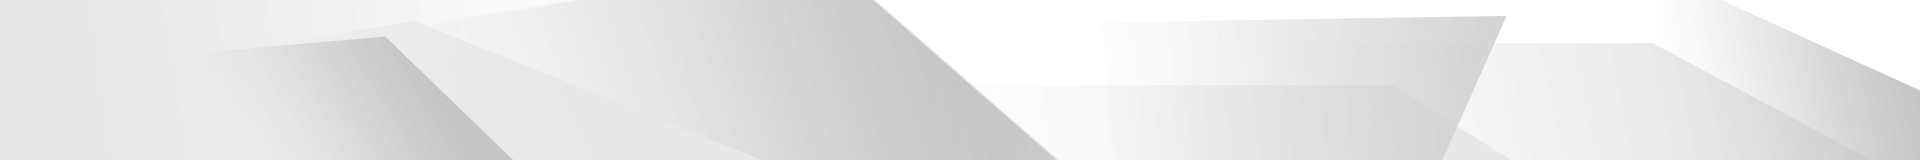
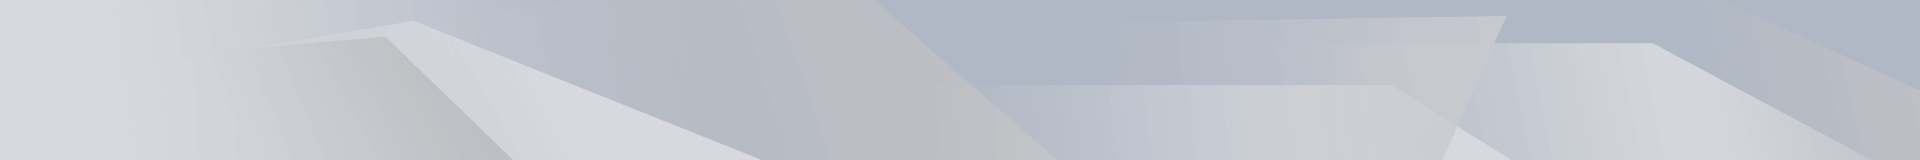
110-04-20-1

diff --git a/src/app/home/home.component.scss b/src/app/home/home.component.scss
@@ -1,7 +1,5 @@
 .home {
-  padding: 10px 0 50px;
-  background: url(/nt1_web/assets/img/home_bg_1.jpg) no-repeat center center;
-  background-size: cover;
+  padding-top: 10px;
 }
 
 .marquee-wrap {
@@ -15,19 +13,20 @@
 .type_list {
   // outline: 1px solid pink;
   display: flex;
+  width: 1400px;
   flex-wrap: wrap;
   max-height: 668px;
-  margin: 0 -22px 0 0;
+  margin-top: 60px;
 
   li {
     position: relative;
-    width: 457px;
-    height: 219px;
-    margin: 0 15px 15px 0;
+    width: 339px;
+    height: 270px;
+    margin: 0 14px 60px 0;
     border-radius: 8px;
     // outline: 1px solid red;
     order: 10;
-    box-shadow: 0 0 13px 0px #cbd0e3;
+    box-shadow: 2px 3px 4px 0px #8a8a8a;
 
     &.sport {
       order: 1;
@@ -35,26 +34,100 @@
 
     &.live {
       order: 2;
+      .homeImg {
+        background-position-X: -343px;
+      }
     }
 
     &.slot {
       order: 3;
+      .homeImg {
+        background-position-X: -689px;
+      }
     }
 
     &.lottery {
       order: 4;
-    }
-
-    &.board {
-      order: 6;
+      margin-right: 0px;
+      .homeImg {
+        background-position-X: -1033px;
+      }
     }
 
     &.fishing {
       order: 5;
+      .homeImg {
+        background-position-X: -1377px;
+      }
+    }
+
+    &.board {
+      order: 6;
+      .homeImg {
+        background-position-X: -1720px;
+      }
     }
 
     // &:nth-child(3n) {
     //   // margin: 0 0 34px 0;
     // }
+    img {
+      width: 100%;
+      height: 100%;
+    }
+
+    .homeImg {
+      width: 344px;
+      height: 324px;
+      background: url('../../assets/img/new/homeImg.png') no-repeat;
+      background-size: 800%;
+      position: absolute;
+      left: -2px;
+      bottom: 0px;
+      pointer-events: none;
+    }
+  }
+}
+
+.partnerImg {
+  width: 100%;
+  height: 55px;
+  border: solid 1px #957222;
+  border-radius: 30px;
+  background: linear-gradient(to top,#d7d7d7 0%,#ffffff 76%);
+  margin: -30px 0px 30px;
+  position: relative;
+
+  &::before {
+    content: "";
+    position: absolute;
+    width: 12px;
+    height: 12px;
+    top: 50%;
+    left: 2%;
+    transform: translateY(-50%);
+    border: solid 1px #9f9f9e;
+    background: linear-gradient(to top,#d7d7d7 0%,#ffffff 100%);
+    border-radius: 10px;
+  }
+
+  &::after {
+    content: "";
+    position: absolute;
+    width: 12px;
+    height: 12px;
+    top: 50%;
+    right: 2%;
+    transform: translateY(-50%);
+    border: solid 1px #9f9f9e;
+    background: linear-gradient(to top,#d7d7d7 0%,#ffffff 100%);
+    border-radius: 10px;
+  }
+
+  div {
+    width: 1272px;
+    height: 39px;
+    background: url('../../assets/img/new/partnerImg.png') no-repeat;
+    margin: 9px auto 0px;
   }
 }

diff --git a/src/app/header/header.component.scss b/src/app/header/header.component.scss
@@ -1,6 +1,5 @@
 header {
-  background: url('../../assets/img/new/headerBG.png') no-repeat;
-  background-size: 100%;
+  background: url('../../assets/img/new/headerBG.png') no-repeat top center;
   font-weight: bold;
   box-shadow: 0 0 13px 2px #dbdef4;
   position: relative;
@@ -70,7 +69,7 @@ option {
     }
 
     &.clickable:hover {
-      background-color: #0068ff;
+      background-color: #866748;
     }
 
     & > .forget {
@@ -220,6 +219,10 @@ option {
       margin-left: 8px;
       padding: 0px 9px 0px 8px;
 
+      &:hover,&:active,&.active {
+        background: linear-gradient(to bottom,#2a8a4b 0%,#6dd191 75%,#54a874 99%);
+      }
+
       span {
         display: inline-block;
         width: 12px;
@@ -231,8 +234,8 @@ option {
     }
                                                                                                                                                                                        
 
-    &:active {
-      opacity: 0.8;
+    &:hover,&:active,&.active {
+      background: linear-gradient(to bottom,#ddb78c 0%,#ffe1a8 70%,#fff8ba 75%,#f0d9a3 95%);
     }
   }
 }
@@ -268,6 +271,7 @@ option {
 
     &:hover,&:active,&.active {
       border-color: #c7a16e;
+      color: #dcb160;
     }
 
     &.home,

diff --git a/src/app/footer/footer.component.scss b/src/app/footer/footer.component.scss
@@ -1,21 +1,33 @@
 footer {
   // padding: 10px 0 0 0;
 
-  height: 90px;
+  height: 55px;
   font-size: 14px;
   font-weight: bold;
   letter-spacing: 1px;
   color: #fff;
-  background: #333;
+  background: url('../../assets/img/new/footerBG_1.png') no-repeat top center;
 }
 
 nav {
-  height: 36px;
-  line-height: 36px;
+  height: 55px;
+  line-height: 55px;
 
   li {
-    &:not(:last-child) {
-      margin: 0 52px 0 0;
+    width: 95px;
+    height: 55px;
+    margin-right: 8px;
+    text-align: center;
+    cursor: pointer;
+    color: #996c33;
+    &:hover,&:active,&.active {
+      background: url('../../assets/img/new/footerHover.png') no-repeat;
+      color: #fff;
+    }
+    &:last-child {
+      margin: 0px;
+      pointer-events: none;
+      width: auto;
     }
   }
 
@@ -26,10 +38,12 @@ nav {
 }
 
 .footer-site {
-  padding: 15px 0;
-  font-size: 12px;
-  line-height: 1.8;
+  width: 100%;
+  height: 160px;
+  padding: 30px;
+  font-size: 14px;
+  line-height: 42px;
   text-align: center;
-  color: #666666;
-  background: #e6e6e6;
+  color: #ffffff;
+  background: url('../../assets/img/new/footerBG_2.png') no-repeat top center;
 }

diff --git a/src/app/header/header.component.html b/src/app/header/header.component.html
@@ -60,12 +60,12 @@
                 placeholder="{{ 'LOGIN.PWD' | translate }}"
                 formControlName="password"
               />
-              <i class="question clickable" (click)="goForget()"></i>
+              <i class="question clickable"></i>
             </div>
             <button class="g-2" [disabled]="isMaintain">
               {{ "LOGIN.TITLE" | translate }}
             </button>
-            <button class="signupBtn" [disabled]="isMaintain">
+            <button class="signupBtn" [disabled]="isMaintain" (click)="openRegister()">
               <span></span>
               註冊
             </button>
@@ -74,7 +74,7 @@
         <li
           class="register clickable"
           [class.disabled]="isMaintain"
-          (click)="openRegister()"
+          (click)="goForget()"
         >
           <i class="forget"></i>
           <!-- {{ "REGISTER.TITLE" | translate }} -->

diff --git a/src/app/game/game.component.scss b/src/app/game/game.component.scss
@@ -37,13 +37,15 @@
       display: flex;
       align-items: flex-end;
       line-height: 1;
-      color: #3d4cce;
+      background: linear-gradient(to bottom, #E0CB89, #A66E33);
+      -webkit-background-clip: text;
       // font-weight: bold;
     }
 
     .title_big {
       letter-spacing: 6px;
       font-size: 62px;
+      color: transparent;
     }
 
     .title_small {
@@ -51,6 +53,7 @@
       font-size: 42px;
       padding-bottom: 5px;
       margin: 0 0 0 16px;
+      color: transparent;
     }
 
     .discription {

diff --git a/src/scss/_com_gradient.scss b/src/scss/_com_gradient.scss
@@ -12,8 +12,8 @@
 // common-alert
 // gold
 .g-2 {
-  background: linear-gradient(#f1d7b7 0%, #cca172 50%, #f1c999 100%);
-  &:active {
+  background: linear-gradient(to top, #fae0af 0%, #d7b676 50%, #f8fbc0);
+  &:hover,&:active,&.active {
     background: linear-gradient(to top, #f1d7b7 0%, #cca172 50%, #f1c999 100%);
   }
 }
@@ -83,7 +83,7 @@
 
 // common-alert
 .g-21 {
-  background: linear-gradient(135deg, #7c4dff, #887aff);
+  background: linear-gradient(to left, #E0CB89, #de9649);
 }
 
 // tabs

diff --git a/src/styles.scss b/src/styles.scss
@@ -144,9 +144,9 @@ ejs-datepicker {
   display: flex;
   align-items: center;
   justify-content: center;
-  background: linear-gradient(#f1d7b7 0%, #cca172 50%, #f1c999 100%);
+  background: linear-gradient(to top, #fae0af 0%, #d7b676 50%, #f8fbc0);
 
-  &:active {
+  &:hover,&:active,&.active {
     background: linear-gradient(to top, #f1d7b7 0%, #cca172 50%, #f1c999 100%);
   }
 

diff --git a/src/app/popup-forget-password/popup-forget-password.component.scss b/src/app/popup-forget-password/popup-forget-password.component.scss
@@ -26,7 +26,7 @@
     line-height: 50px;
     font-size: 18px;
     letter-spacing: 2px;
-    background: #3d4cce;
+    background: linear-gradient(to left, #E0CB89, #de9649);
 
     p {
       color: #fff;
@@ -39,6 +39,7 @@
       background: url("/nt1_web/assets/img/close_w.svg") no-repeat center center;
       right: 15px;
       top: 15px;
+      cursor: pointer;
     }
   }
 }

diff --git a/src/scss/_reset.scss b/src/scss/_reset.scss
@@ -139,6 +139,17 @@ input[type="number"]::-webkit-inner-spin-button {
 }
 html {
   font-family: Microsoft JhengHei;
+
+  .bg {
+    width: 100%;
+    min-width: 1400px;
+    height: 100%;
+    position: absolute;
+    top: 0px;
+    left: 0px;
+    background: url('../assets/img/new/bg.png') no-repeat top center;
+    z-index: -999;
+  }
 }
 body {
   position: relative;

diff --git a/src/app/home/home.component.html b/src/app/home/home.component.html
@@ -11,8 +11,12 @@
         [routerLink]="item.route"
         class="clickable"
       >
-        <img [src]="item.img" [alt]="item.type" />
+        <!-- <img [src]="item.img" [alt]="item.type" /> -->
+        <div class="homeImg"></div>
       </li>
     </ul>
+    <div class="partnerImg">
+      <div></div>
+    </div>
   </div>
 </div>

diff --git a/src/app/community-bar/community-bar.component.scss b/src/app/community-bar/community-bar.component.scss
@@ -26,6 +26,10 @@
     box-shadow: 0px 0px 5px 2px #cccac4;
     margin-bottom: 5px;
 
+    &:hover,&:active,&.active {
+      filter: brightness(1.2);
+    }
+
     img {
       width: 30px;
       height: 30px;

diff --git a/src/index.html b/src/index.html
@@ -21,5 +21,6 @@
 
   <body ondragstart="return false;">
     <app-root></app-root>
+    <div class="bg"></div>
   </body>
 </html>
